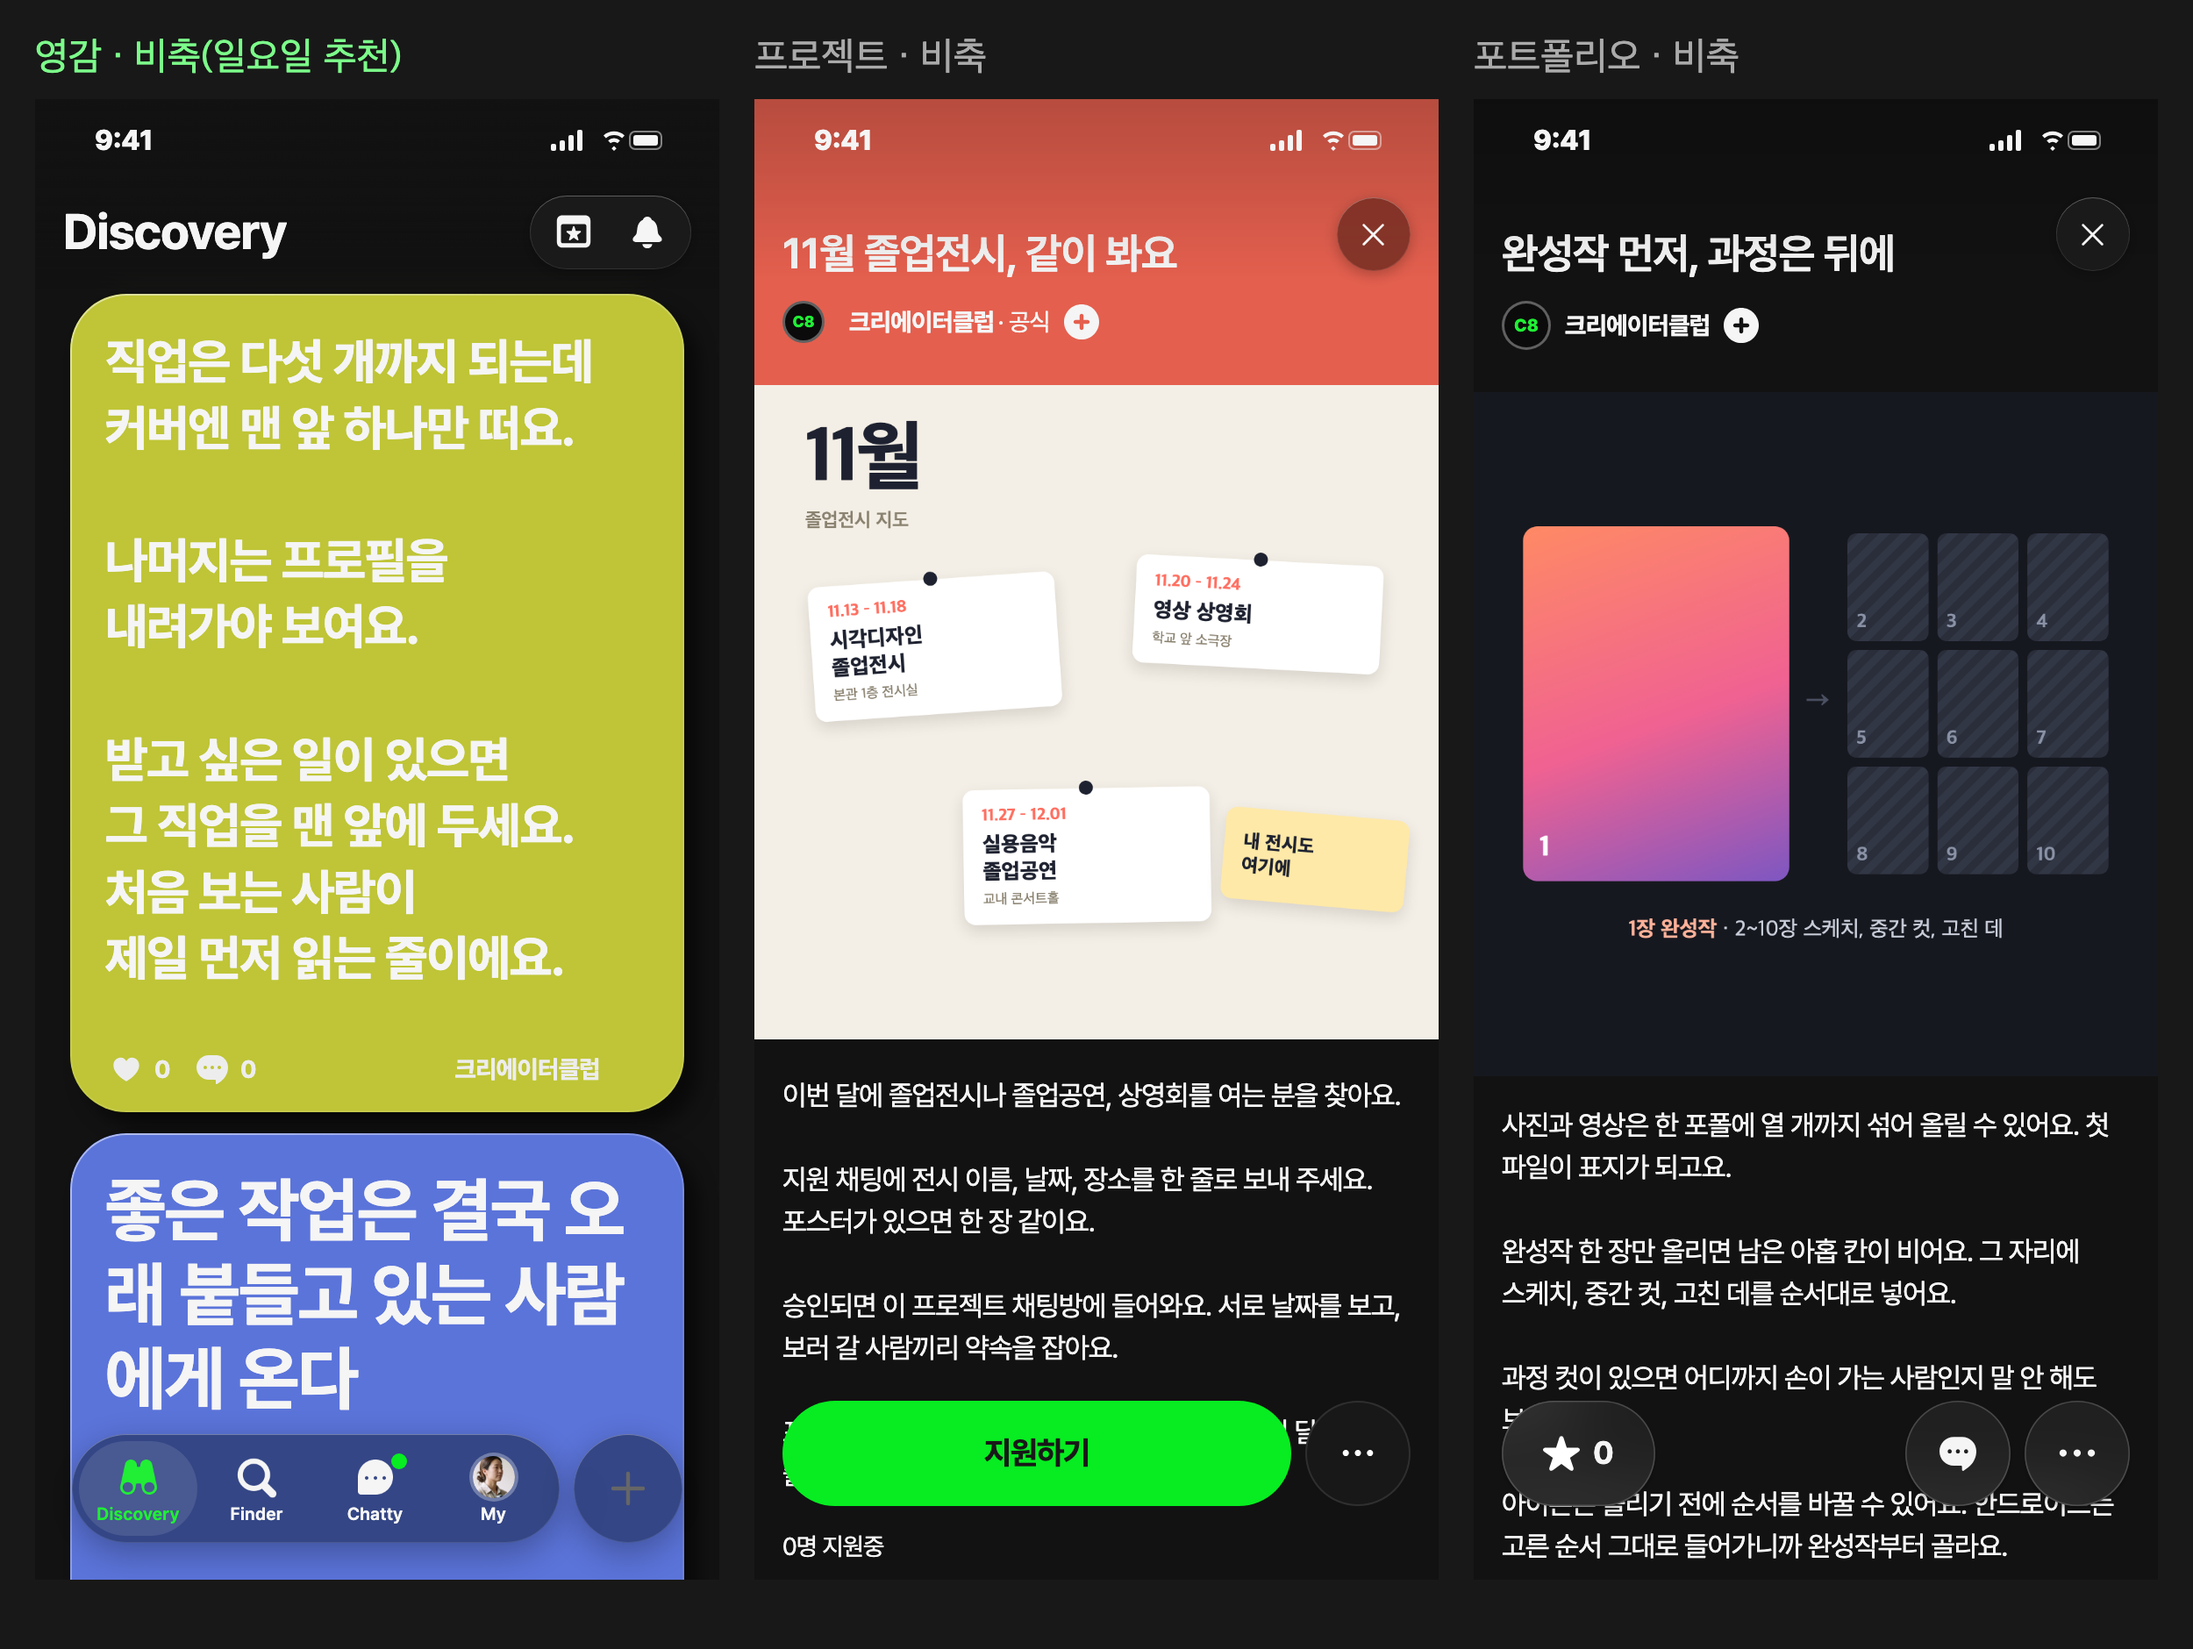
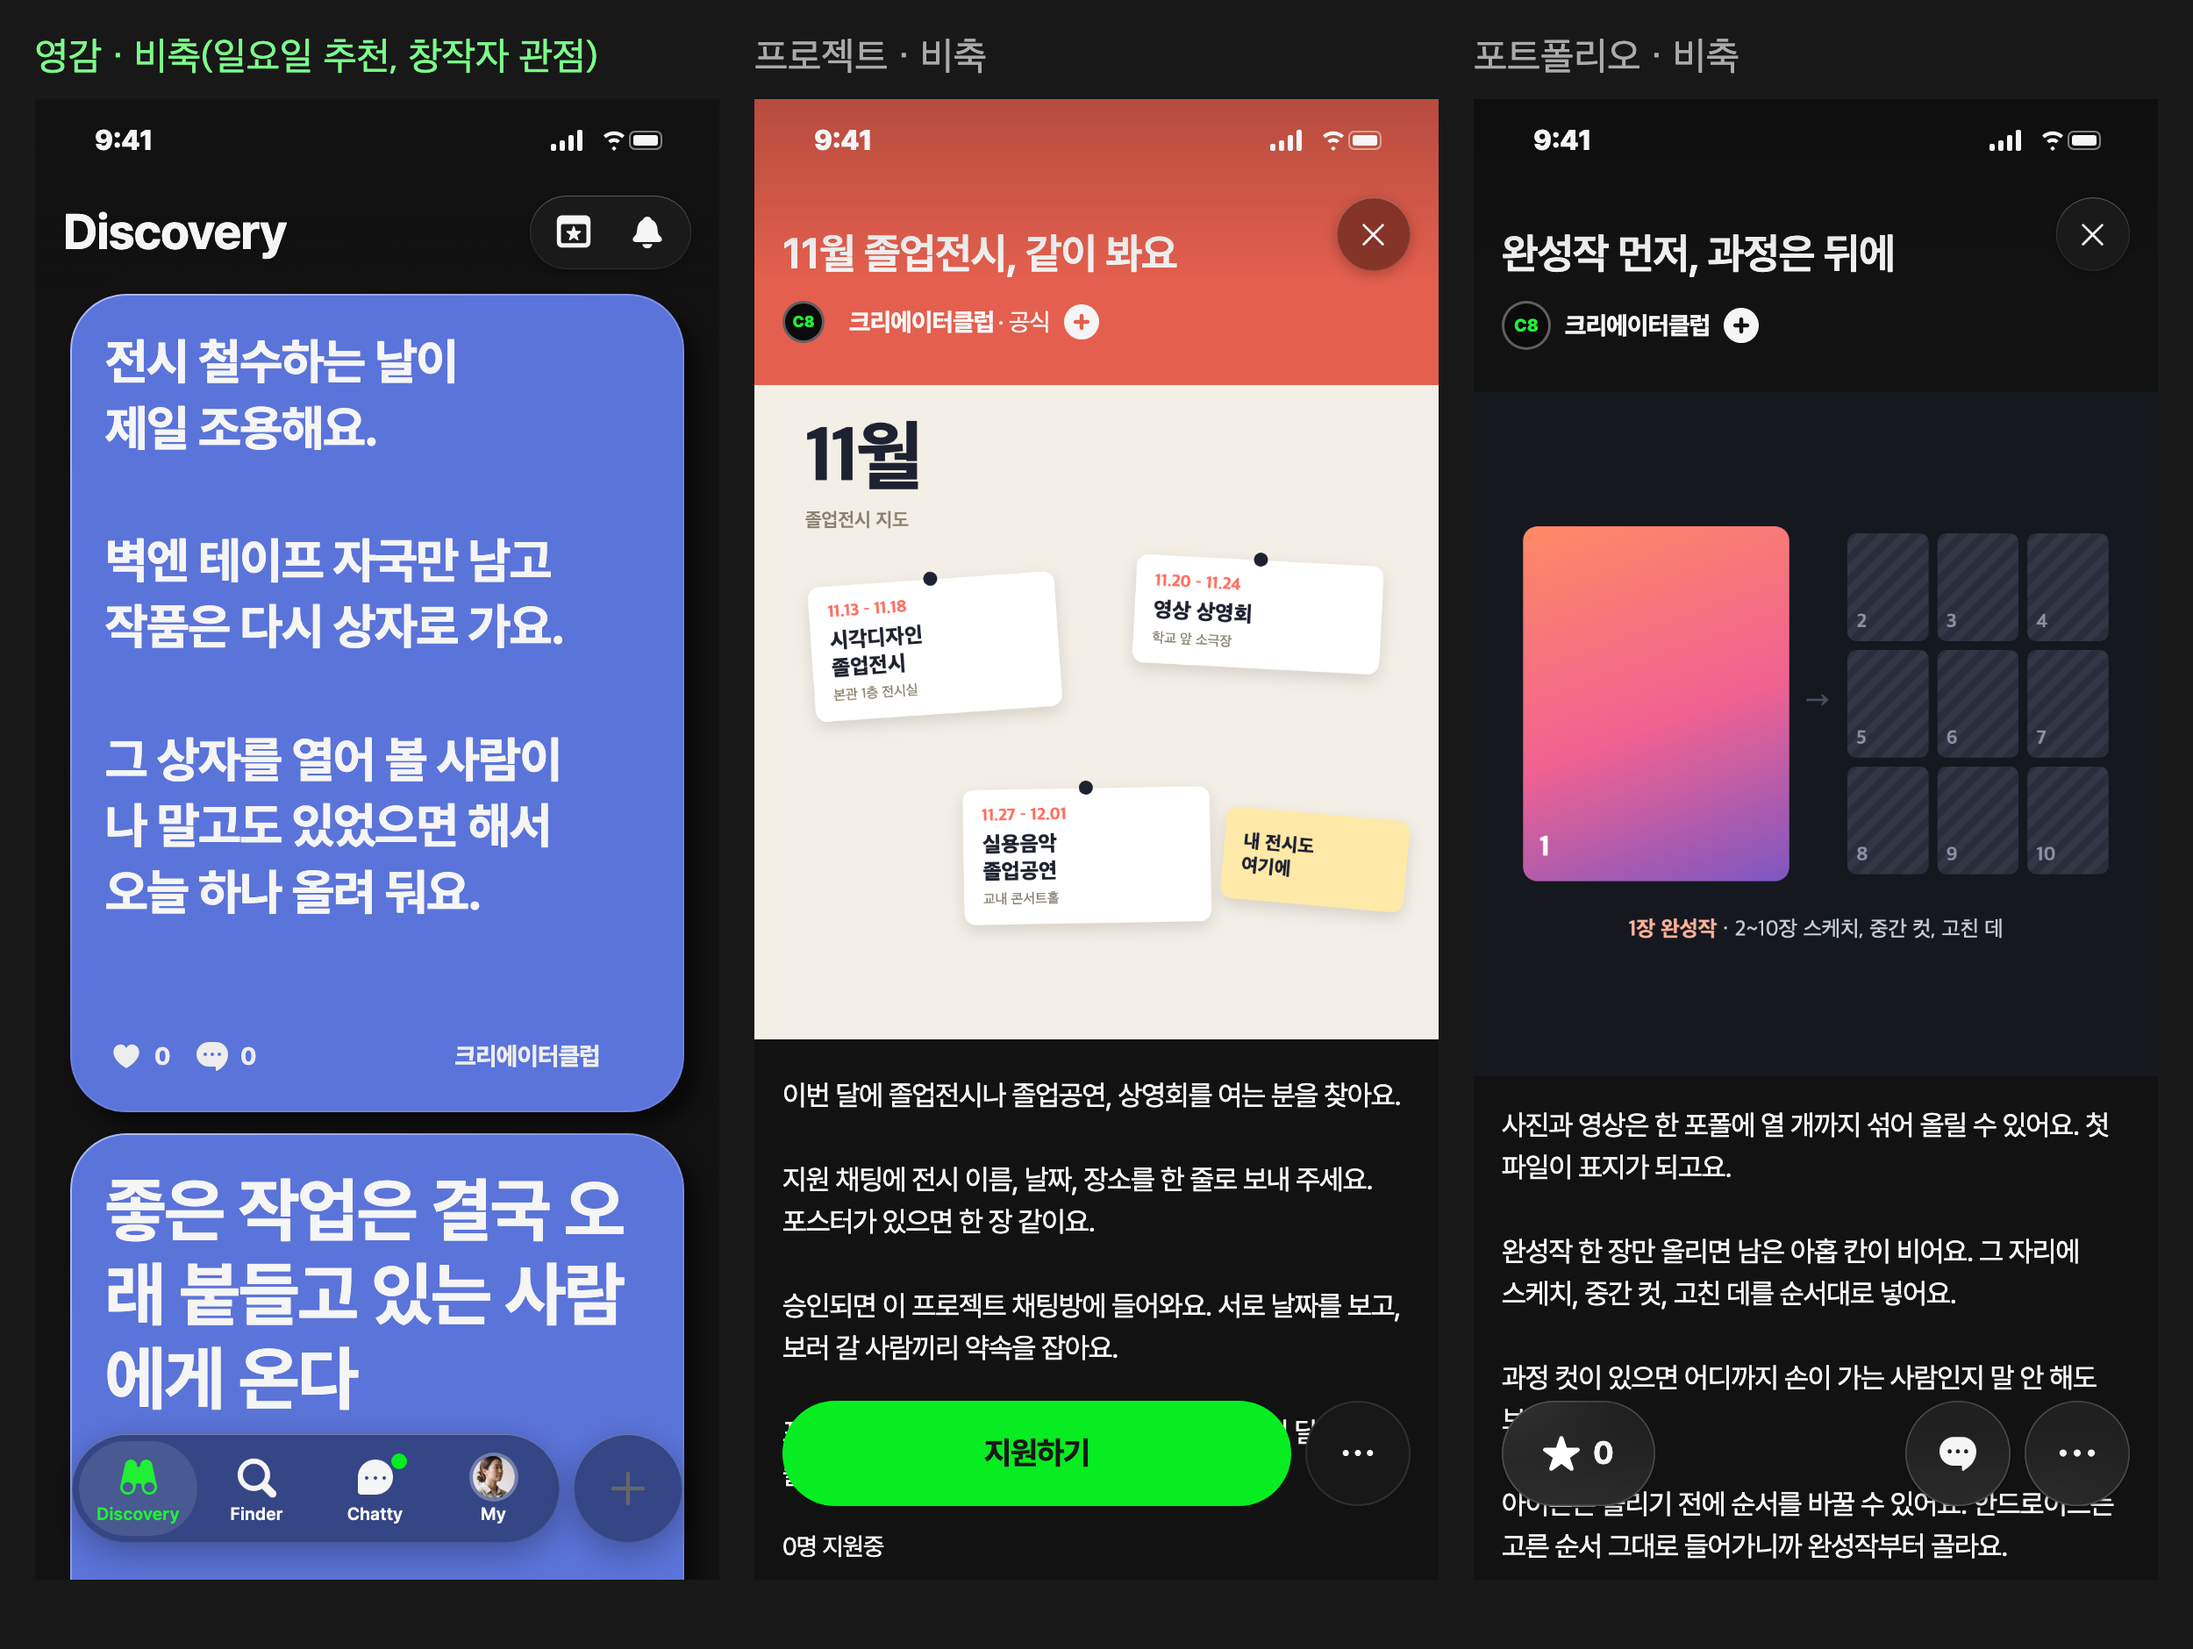
Deploy c8-app-post-261107 → public-pages/ (redeploy, 2026-11-07)

Changed region(s): [[0.0312, 0.1543, 0.312, 0.6787], [0.1872, 0.0, 0.2808, 0.0617]]

diff --git a/c8-app-post-261107/index.html b/c8-app-post-261107/index.html
@@ -1,5 +1,5 @@
 <!doctype html><html lang="ko"><head><meta charset="utf-8"><meta name="viewport" content="width=device-width,initial-scale=1"><meta name="robots" content="noindex">
-<title>C8 앱 게시 시안 11/7(토) — 오늘은 쉬어요 · 세 안 비축(영감은 일 11/8 젠지 추천)</title><style>
+<title>C8 앱 게시 시안 11/7(토) — 오늘은 쉬어요 · 세 안 비축(영감은 일 11/8 젠지 추천, 창작자 관점으로 다시 씀)</title><style>
 body{margin:0;background:#111;color:#eee;font-family:Pretendard,-apple-system,"Apple SD Gothic Neo",sans-serif;letter-spacing:-.2px}
 main{max-width:820px;margin:0 auto;padding:20px 16px 60px} h1{font-size:21px;margin:4px 0 16px}
 section{margin:0 0 34px} .tag{display:inline-block;font-size:13px;font-weight:700;padding:5px 10px;border-radius:999px;background:#2a2a2a;color:#ccc;margin-bottom:12px} .tag.on{background:#20EF35;color:#0b0b0b}
@@ -8,16 +8,15 @@ section{margin:0 0 34px} .tag{display:inline-block;font-size:13px;font-weight:70
 .box{background:#1c1c1c;border-radius:14px;margin:10px 0;padding:12px 14px} .bl{display:flex;justify-content:space-between;align-items:center;margin-bottom:6px;font-size:13px;color:#bbb}
 button{font:600 13px Pretendard,-apple-system,sans-serif;background:#2f2f2f;color:#fff;border:0;border-radius:999px;padding:6px 12px}
 pre{margin:0;white-space:pre-wrap;word-break:keep-all;font:15px/1.6 Pretendard,-apple-system,"Apple SD Gothic Neo",sans-serif;color:#f2f2f2}
-</style></head><body><main><h1>C8 앱 게시 시안 · 11/7(토) — 오늘은 쉬어요 · 세 안 비축(영감은 일 11/8 젠지 추천)</h1><section><div class="tag">비축 · 일 11/8 추천 · 영감 · 일 11/8 낮 12시 · 노랑</div><div class="shots"><img src="s0-0.jpg" alt=""></div><p class="note">칸: 앱 소개 × 쓸모(이럴 때 이 기능)<br>근거: 직업 선택 시트 「최대 5개까지 선택되며, 순서대로 프로필에 반영돼요.」 + 커버 스킨 A~E 머리가 모두 professions[0]만 그림, 아래 정보 칸에서 전부 보임(앱·웹 코드 11/7 확인)<br>왜 일요일: 일요일 1순위 「이럴 때 이 기능」 — 다음 주 노크 받기 전에 바로 고칠 수 있는 한 가지<br>보낼 사람: 일러스트도 하고 영상도 자르는 친구에게 「너 커버엔 영상만 떠」<br>받고 싶은 댓글: 부탁 안 함</p><div class="box"><div class="bl"><b>영감 글</b><button onclick="cp(this)">복사</button></div><pre>직업은 다섯 개까지 되는데
-커버엔 맨 앞 하나만 떠요.
+</style></head><body><main><h1>C8 앱 게시 시안 · 11/7(토) — 오늘은 쉬어요 · 세 안 비축(영감은 일 11/8 젠지 추천, 창작자 관점으로 다시 씀)</h1><section><div class="tag">비축 · 일 11/8 추천 · 영감 · 일 11/8 낮 12시 · 파랑</div><div class="shots"><img src="s0-0.jpg" alt=""></div><p class="note">칸: 창작자 공감 × 장면(설명 없음)<br>왜 일요일: 11월 졸업전시 철, 같은 날 비축한 졸업전시 프로젝트와 짝<br>보낼 사람: 졸전 끝낸 동기에게 「이거 우리 얘기다」<br>받고 싶은 댓글: 부탁 안 함</p><div class="box"><div class="bl"><b>영감 글</b><button onclick="cp(this)">복사</button></div><pre>전시 철수하는 날이
+제일 조용해요.
 
-나머지는 프로필을
-내려가야 보여요.
+벽엔 테이프 자국만 남고
+작품은 다시 상자로 가요.
 
-받고 싶은 일이 있으면
-그 직업을 맨 앞에 두세요.
-처음 보는 사람이
-제일 먼저 읽는 줄이에요.</pre></div></section><section><div class="tag">비축 · 프로젝트 · 코랄</div><div class="shots"><img src="s1-0.jpg" alt=""><img src="s1-1.jpg" alt=""></div><p class="note">칸: 잇기 × 판 열기(학교와 행사)<br>왜 비축: 지원 승인·채팅방 지킬 사람이 C8 계정이라 샐리가 정할 것<br>보낼 사람: 같이 졸전 준비하는 동기에게 「우리 전시 여기도 올리자」<br>받고 싶은 지원 채팅: 「○○대 시각디자인 졸업전시, 11/13~18 본관 1층이에요. 포스터 같이 보내요」</p><div class="box"><div class="bl"><b>제목</b><button onclick="cp(this)">복사</button></div><pre>11월 졸업전시, 같이 봐요</pre></div><div class="box"><div class="bl"><b>카테고리</b><button onclick="cp(this)">복사</button></div><pre>전시 · 공연</pre></div><div class="box"><div class="bl"><b>모집 내용</b><button onclick="cp(this)">복사</button></div><pre>이번 달 졸업전시·졸업공연·상영회를 여는 회원 누구나 · 11/8~11/30 · 상품 없음</pre></div><div class="box"><div class="bl"><b>설명</b><button onclick="cp(this)">복사</button></div><pre>이번 달에 졸업전시나 졸업공연, 상영회를 여는 분을 찾아요.
+그 상자를 열어 볼 사람이
+나 말고도 있었으면 해서
+오늘 하나 올려 둬요.</pre></div></section><section><div class="tag">비축 · 프로젝트 · 코랄</div><div class="shots"><img src="s1-0.jpg" alt=""><img src="s1-1.jpg" alt=""></div><p class="note">칸: 잇기 × 판 열기(학교와 행사)<br>왜 비축: 지원 승인·채팅방 지킬 사람이 C8 계정이라 샐리가 정할 것<br>보낼 사람: 같이 졸전 준비하는 동기에게 「우리 전시 여기도 올리자」<br>받고 싶은 지원 채팅: 「○○대 시각디자인 졸업전시, 11/13~18 본관 1층이에요. 포스터 같이 보내요」</p><div class="box"><div class="bl"><b>제목</b><button onclick="cp(this)">복사</button></div><pre>11월 졸업전시, 같이 봐요</pre></div><div class="box"><div class="bl"><b>카테고리</b><button onclick="cp(this)">복사</button></div><pre>전시 · 공연</pre></div><div class="box"><div class="bl"><b>모집 내용</b><button onclick="cp(this)">복사</button></div><pre>이번 달 졸업전시·졸업공연·상영회를 여는 회원 누구나 · 11/8~11/30 · 상품 없음</pre></div><div class="box"><div class="bl"><b>설명</b><button onclick="cp(this)">복사</button></div><pre>이번 달에 졸업전시나 졸업공연, 상영회를 여는 분을 찾아요.
 
 지원 채팅에 전시 이름, 날짜, 장소를 한 줄로 보내 주세요. 포스터가 있으면 한 장 같이요.
 
